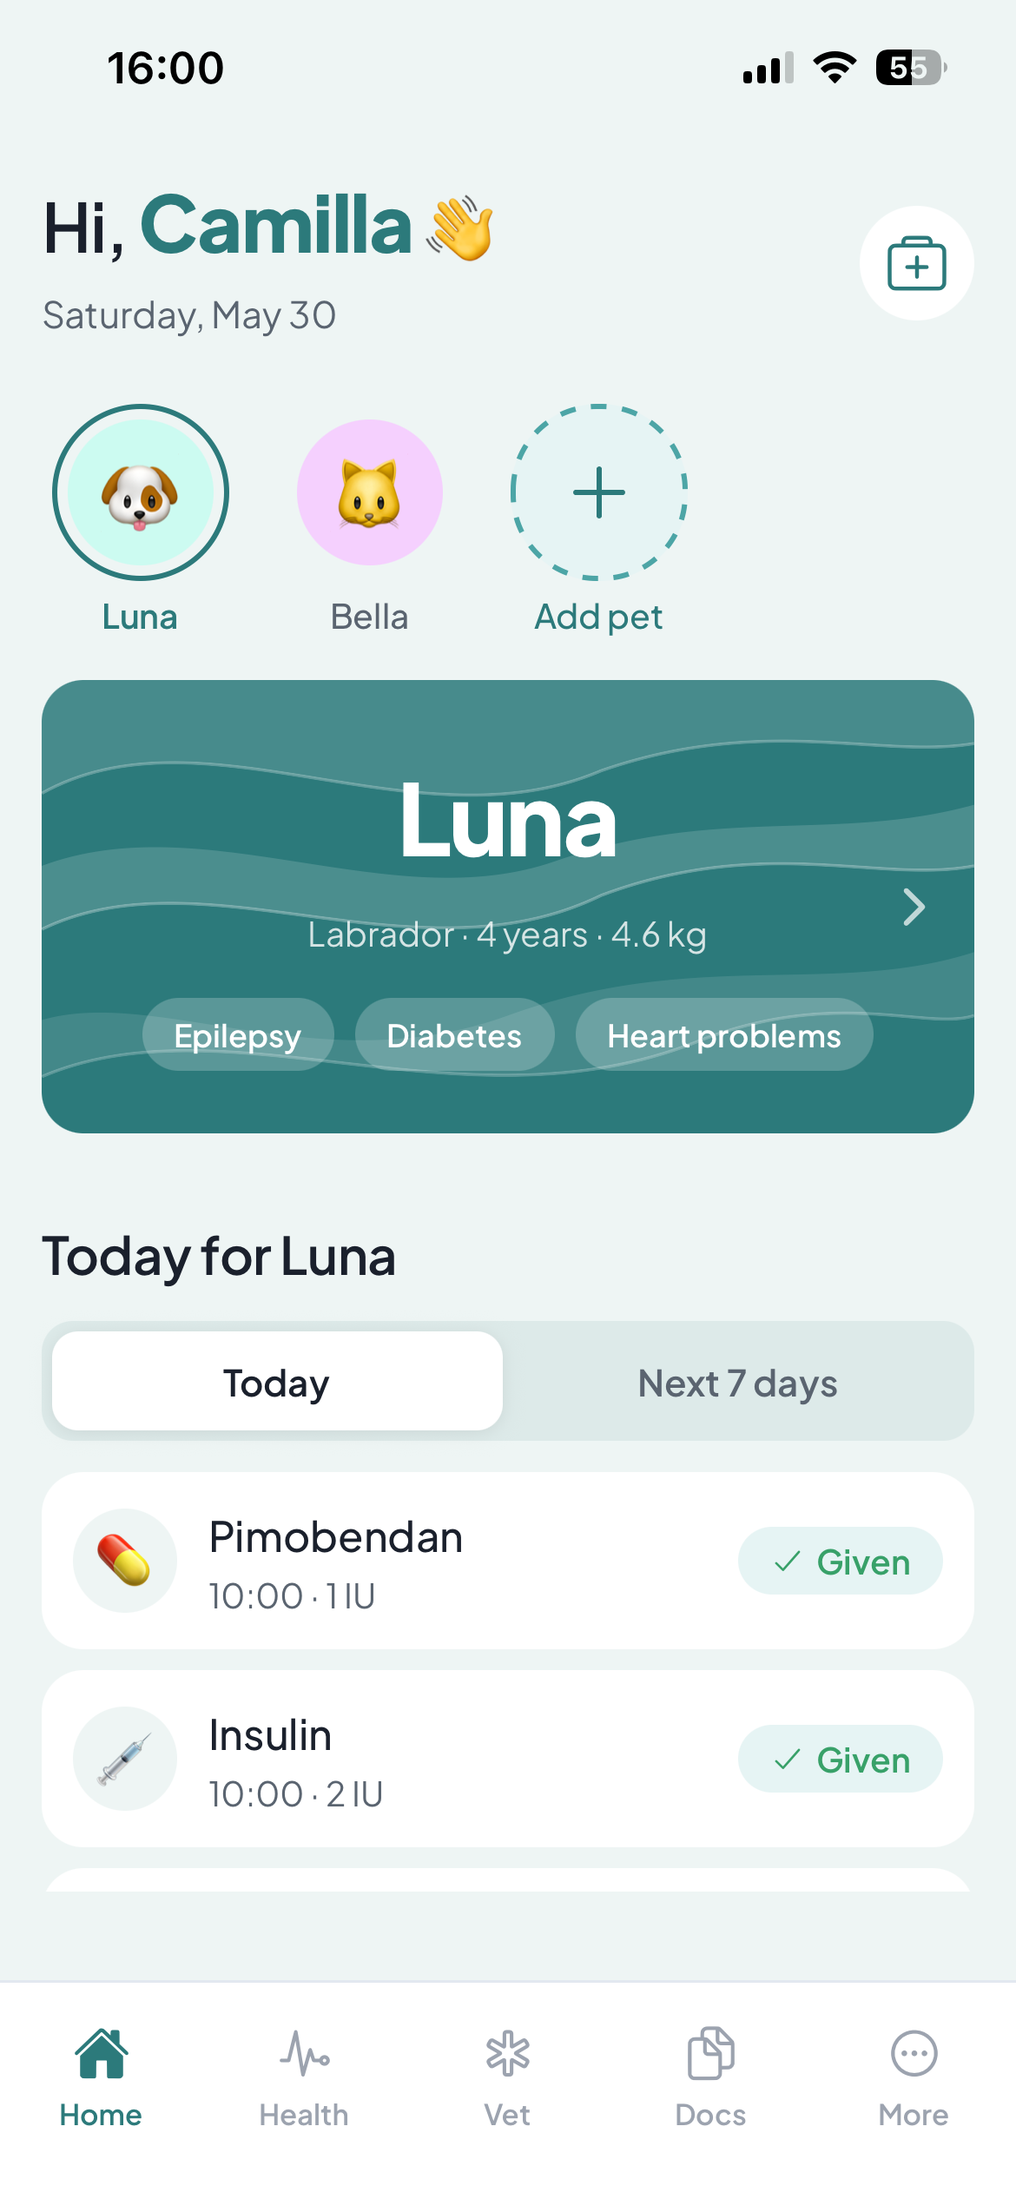
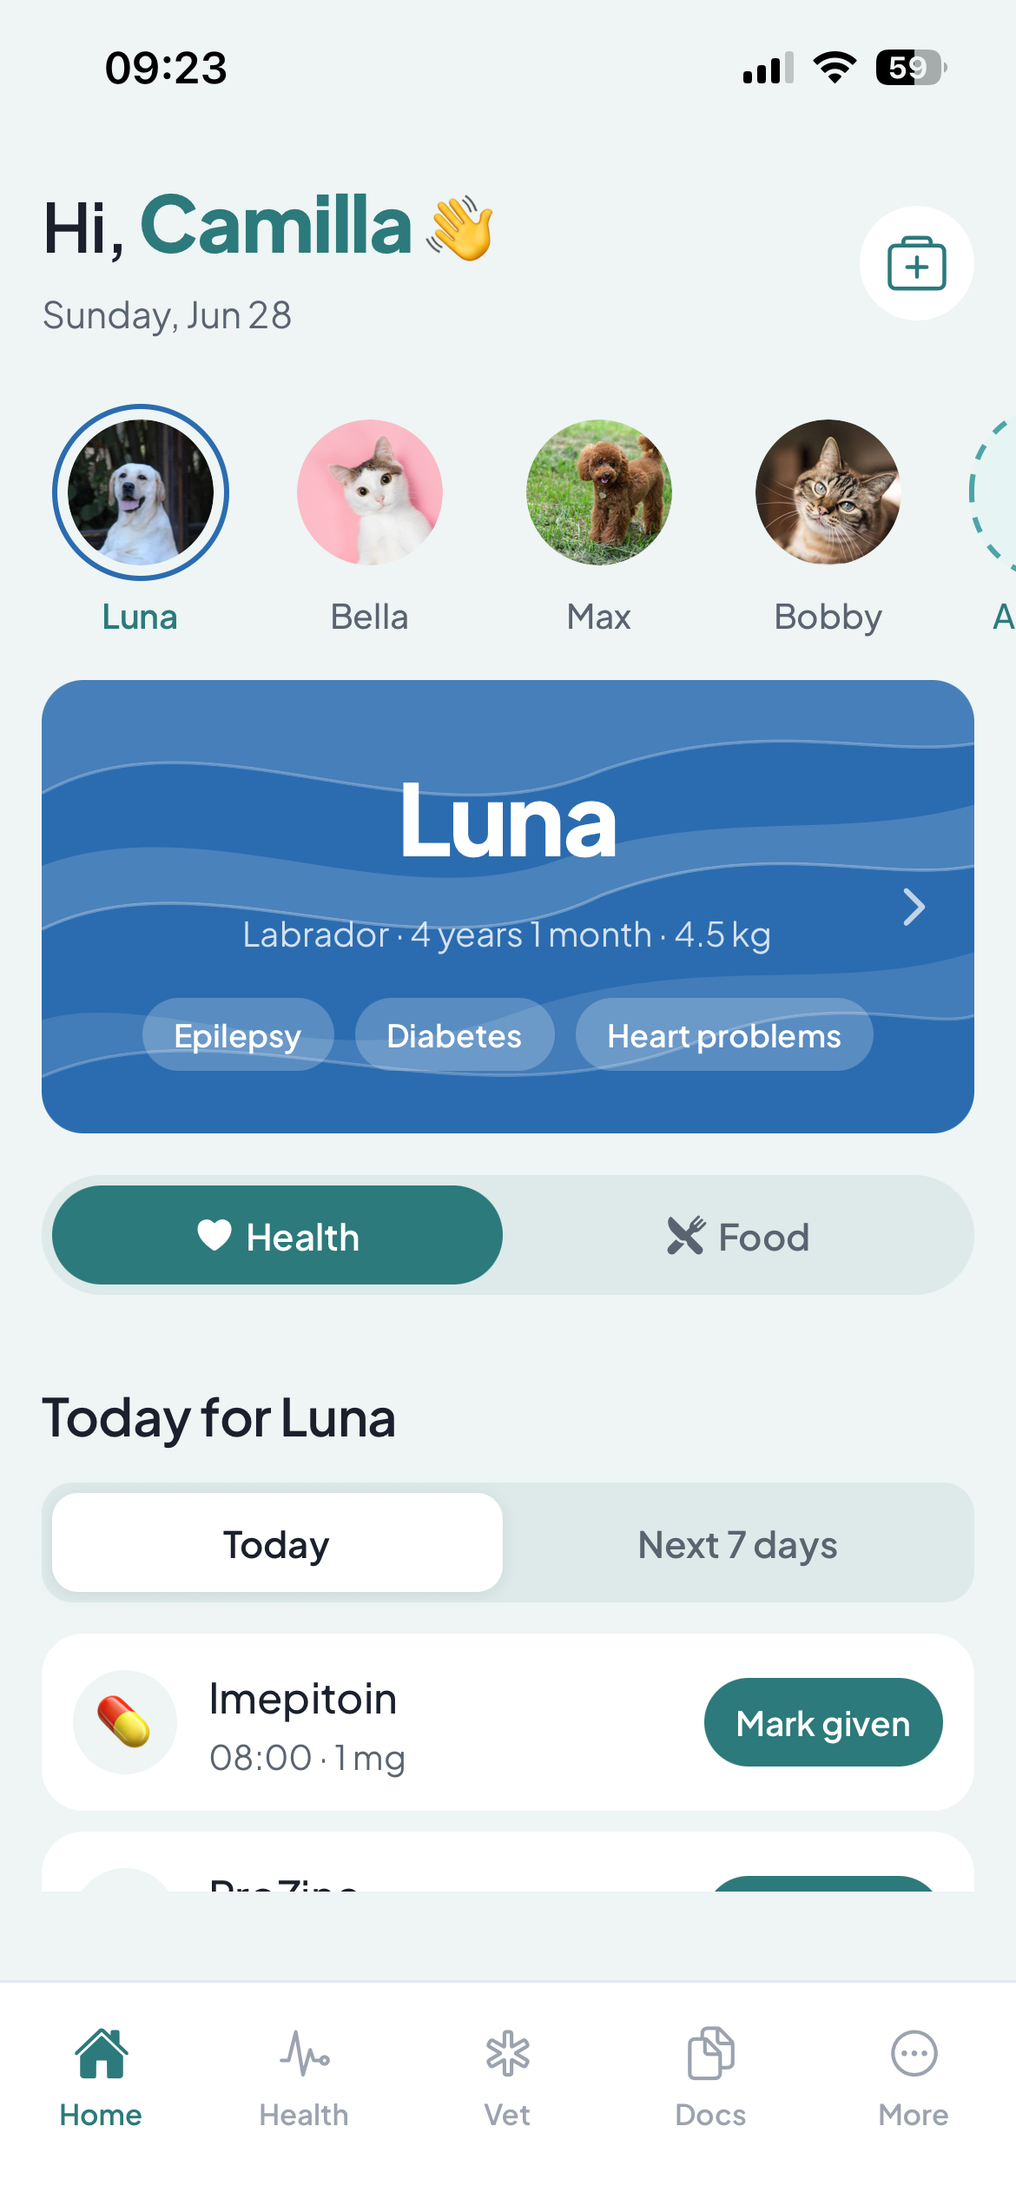
Add files via upload

diff --git a/index.html b/index.html
@@ -73,7 +73,7 @@
       <p class="hero-sub" data-i18n="hero.sub"></p>
       <div class="hero-actions">
         <div class="stores" id="download">
-          <a class="store" href="#download">
+          <a class="store" href="https://apps.apple.com/app/sereno-pet-health-tracker/id6776119195" target="_blank" rel="noopener">
             <svg viewBox="0 0 24 24" fill="currentColor"><path d="M16.5 1.6c.1 1-.3 2-.9 2.7-.7.8-1.7 1.4-2.7 1.3-.1-1 .3-2 1-2.8.6-.7 1.7-1.2 2.6-1.2zM20 17.2c-.5 1.2-.8 1.7-1.4 2.7-.9 1.4-2.2 3.1-3.7 3.1-1.4 0-1.7-.9-3.6-.9s-2.3.9-3.6.9c-1.6 0-2.8-1.5-3.7-2.9C1.4 16.6.8 11.9 2.4 9.4c1-1.6 2.7-2.6 4.3-2.6 1.6 0 2.6 1 3.9 1 1.3 0 2-1 3.9-1 1.4 0 2.9.8 3.9 2.1-3.4 1.9-2.9 6.8 1.2 8.3z"/></svg>
             <span><small data-i18n="hero.app">Download on the</small><b>App Store</b></span>
           </a>
@@ -233,6 +233,7 @@
           <li class="demo-step"><span class="ds-ic"><svg viewBox="0 0 24 24" fill="none" stroke="currentColor" stroke-width="1.8" stroke-linecap="round" stroke-linejoin="round"><path d="M10.5 20.5 4 14a5 5 0 0 1 7-7l6.5 6.5a5 5 0 0 1-7 7Z"/><path d="m8.5 8.5 7 7"/></svg></span><div class="ds-txt"><b data-i18n="demo.s2t">Medications</b><span data-i18n="demo.s2d">Doses, schedules and refill reminders.</span></div></li>
           <li class="demo-step"><span class="ds-ic"><svg viewBox="0 0 24 24" fill="none" stroke="currentColor" stroke-width="1.8" stroke-linecap="round" stroke-linejoin="round"><path d="M3 12h4l2 5 4-12 2 7h6"/></svg></span><div class="ds-txt"><b data-i18n="demo.s3t">Symptoms</b><span data-i18n="demo.s3d">Log a flare-up with a note, a photo and a time.</span></div></li>
           <li class="demo-step"><span class="ds-ic"><svg viewBox="0 0 24 24" fill="none" stroke="currentColor" stroke-width="1.8" stroke-linecap="round" stroke-linejoin="round"><path d="M9 11.5l2.5 2.5 5-5"/><path d="M20 12.5V18a2 2 0 0 1-2 2H6a2 2 0 0 1-2-2V6a2 2 0 0 1 2-2h8.5"/></svg></span><div class="ds-txt"><b data-i18n="demo.s4t">Health report</b><span data-i18n="demo.s4d">One tap turns months of tracking into a report.</span></div></li>
+          <li class="demo-step"><span class="ds-ic"><svg viewBox="0 0 24 24" fill="none" stroke="currentColor" stroke-width="1.8" stroke-linecap="round" stroke-linejoin="round"><path d="M5 3v6a2 2 0 0 0 4 0V3M7 11v10"/><path d="M16.5 3C15 3 14 5.4 14 8s1 4 2.5 4M16.5 3v18"/></svg></span><div class="ds-txt"><b data-i18n="demo.s5t">Food &amp; water</b><span data-i18n="demo.s5d">Log every meal, treat and sip.</span></div></li>
         </ul>
       </div>
       <div class="demo-right">
@@ -245,6 +246,8 @@
         <div class="dscreen"><div class="dscreen-inner"><img class="dscreen-shot" src="assets/demo_symptoms_sm.png" alt="Sereno — Symptoms screen"><span class="dscreen-island"></span></div></div>
         <!-- Screen 4: Health overview -->
         <div class="dscreen"><div class="dscreen-inner"><img class="dscreen-shot" src="assets/demo_report_sm.png" alt="Sereno — Health overview screen"><span class="dscreen-island"></span></div></div>
+        <!-- Screen 5: Food & water -->
+        <div class="dscreen"><div class="dscreen-inner"><img class="dscreen-shot" src="assets/demo_food_sm.png" alt="Sereno — Food & water screen"><span class="dscreen-island"></span></div></div>
       </div>
       </div>
     </div>
@@ -459,7 +462,7 @@
       <h2 data-i18n="cta.title">Start caring with confidence today.</h2>
       <p data-i18n="cta.sub">Join 40,000+ families giving their pets calmer, better care.</p>
       <div class="stores">
-        <a class="store" href="#download">
+        <a class="store" href="https://apps.apple.com/app/sereno-pet-health-tracker/id6776119195" target="_blank" rel="noopener">
           <svg viewBox="0 0 24 24" fill="currentColor"><path d="M16.5 1.6c.1 1-.3 2-.9 2.7-.7.8-1.7 1.4-2.7 1.3-.1-1 .3-2 1-2.8.6-.7 1.7-1.2 2.6-1.2zM20 17.2c-.5 1.2-.8 1.7-1.4 2.7-.9 1.4-2.2 3.1-3.7 3.1-1.4 0-1.7-.9-3.6-.9s-2.3.9-3.6.9c-1.6 0-2.8-1.5-3.7-2.9C1.4 16.6.8 11.9 2.4 9.4c1-1.6 2.7-2.6 4.3-2.6 1.6 0 2.6 1 3.9 1 1.3 0 2-1 3.9-1 1.4 0 2.9.8 3.9 2.1-3.4 1.9-2.9 6.8 1.2 8.3z"/></svg>
           <span><small data-i18n="hero.app">Download on the</small><b>App Store</b></span>
         </a>
@@ -512,5 +515,110 @@
 <script src="js/i18n.js?v=7"></script>
 <script src="js/main.js?v=12"></script>
 <script src="js/mobile-demo.js?v=8"></script>
+
+<!-- ============ Cookie consent + Meta Pixel ============ -->
+<style>
+  #cookie-banner{
+    position:fixed;left:16px;right:16px;bottom:16px;z-index:9999;
+    max-width:640px;margin:0 auto;
+    display:flex;align-items:center;gap:18px;flex-wrap:wrap;
+    padding:16px 20px;
+    background:rgba(255,255,255,.96);backdrop-filter:blur(10px);
+    border:1px solid var(--line,rgba(22,48,46,.10));
+    border-radius:16px;
+    box-shadow:0 16px 40px -14px rgba(22,48,46,.35);
+    font-family:'Plus Jakarta Sans',system-ui,sans-serif;
+    transform:translateY(140%);transition:transform .5s cubic-bezier(.22,1,.36,1);
+  }
+  #cookie-banner.show{transform:translateY(0)}
+  #cookie-banner .cc-text{
+    flex:1 1 280px;min-width:240px;
+    font-size:13.5px;line-height:1.5;color:var(--ink-soft,#4a615e)
+  }
+  #cookie-banner .cc-text a{color:var(--teal,#2c7a7b);font-weight:600;text-decoration:underline;text-underline-offset:2px}
+  #cookie-banner .cc-actions{display:flex;gap:10px;flex:0 0 auto}
+  #cookie-banner button{
+    font-family:inherit;cursor:pointer;border:none;
+    padding:10px 20px;border-radius:100px;font-weight:600;font-size:14px;
+    transition:transform .3s,box-shadow .3s,background .25s
+  }
+  #cookie-banner .cc-accept{background:var(--teal,#2c7a7b);color:#fff;box-shadow:0 8px 18px -8px rgba(44,122,123,.6)}
+  #cookie-banner .cc-accept:hover{transform:translateY(-2px);box-shadow:0 14px 26px -10px rgba(44,122,123,.7)}
+  #cookie-banner .cc-decline{background:transparent;color:var(--ink-soft,#4a615e);border:1px solid var(--line,rgba(22,48,46,.10))}
+  #cookie-banner .cc-decline:hover{background:rgba(22,48,46,.05);color:var(--ink,#16302e)}
+  @media (max-width:520px){
+    #cookie-banner{flex-direction:column;align-items:stretch;text-align:left;gap:14px}
+    #cookie-banner .cc-text{flex:0 0 auto;min-width:0}
+    #cookie-banner .cc-actions{justify-content:flex-end}
+    #cookie-banner .cc-actions button{flex:1}
+  }
+</style>
+
+<div id="cookie-banner" role="dialog" aria-live="polite" aria-label="Cookie consent">
+  <p class="cc-text">We use cookies to measure and improve our ads. <a href="/privacy">Privacy Policy</a></p>
+  <div class="cc-actions">
+    <button type="button" class="cc-decline" id="cc-decline">Decline</button>
+    <button type="button" class="cc-accept" id="cc-accept">Accept</button>
+  </div>
+</div>
+
+<script>
+(function(){
+  var PIXEL_ID = '27504330972512838';
+  var STORE_KEY = 'sereno_cookie_consent';
+
+  function loadPixel(){
+    if(window.fbq) return;
+    /* Meta Pixel base code */
+    !function(f,b,e,v,n,t,s){if(f.fbq)return;n=f.fbq=function(){n.callMethod?
+    n.callMethod.apply(n,arguments):n.queue.push(arguments)};if(!f._fbq)f._fbq=n;
+    n.push=n;n.loaded=!0;n.version='2.0';n.queue=[];t=b.createElement(e);t.async=!0;
+    t.src=v;s=b.getElementsByTagName(e)[0];s.parentNode.insertBefore(t,s)}(window,
+    document,'script','https://connect.facebook.net/en_US/fbevents.js');
+    window.fbq('init', PIXEL_ID);
+    window.fbq('track', 'PageView');
+  }
+
+  function bindDownloadTracking(){
+    document.querySelectorAll('a.store[href*="apps.apple.com"]').forEach(function(a){
+      a.addEventListener('click', function(){
+        if(window.fbq) window.fbq('trackCustom', 'DownloadClick');
+      });
+    });
+  }
+
+  function activate(){
+    loadPixel();
+    bindDownloadTracking();
+  }
+
+  function hideBanner(){
+    var b = document.getElementById('cookie-banner');
+    if(b) b.classList.remove('show');
+  }
+
+  var choice = null;
+  try{ choice = localStorage.getItem(STORE_KEY); }catch(e){}
+
+  if(choice === 'accepted'){
+    activate();
+  } else if(choice === 'declined'){
+    /* do nothing — no pixel */
+  } else {
+    var banner = document.getElementById('cookie-banner');
+    requestAnimationFrame(function(){ requestAnimationFrame(function(){ banner.classList.add('show'); }); });
+
+    document.getElementById('cc-accept').addEventListener('click', function(){
+      try{ localStorage.setItem(STORE_KEY, 'accepted'); }catch(e){}
+      hideBanner();
+      activate();
+    });
+    document.getElementById('cc-decline').addEventListener('click', function(){
+      try{ localStorage.setItem(STORE_KEY, 'declined'); }catch(e){}
+      hideBanner();
+    });
+  }
+})();
+</script>
 </body>
 </html>

diff --git a/privacy.html b/privacy.html
@@ -257,11 +257,11 @@
     <div class="sereno-card">
 
       <h1>Privacy Policy</h1>
-      <p class="last-updated">Last updated: May 28, 2026</p>
+      <p class="last-updated">Last updated: June 28, 2026</p>
 
       <div class="summary-box">
         <strong>At a glance</strong>
-        <p>This Privacy Policy explains how Sereno collects, uses, and protects your personal information when you use our pet health tracker app. We are based in Italy and operate under European data protection law (GDPR). We do not sell your data, do not use third-party advertising trackers, and you can delete your account and data at any time.</p>
+        <p>This Privacy Policy explains how Sereno collects, uses, and protects your personal information when you use our pet health tracker app. We are based in Italy and operate under European data protection law (GDPR). We do not sell your data. The app contains no advertising trackers; our website uses a Meta advertising pixel only if you give consent via the cookie banner. You can delete your account and data at any time.</p>
       </div>
 
       <p>This Privacy Notice for <strong>Ivan Salgarello</strong> (doing business as <strong>Sereno</strong>) ("<strong>we</strong>," "<strong>us</strong>," or "<strong>our</strong>"), describes how and why we might access, collect, store, use, and/or share ("<strong>process</strong>") your personal information when you use our services ("<strong>Services</strong>"), including when you:</p>
@@ -396,7 +396,7 @@
       </ul>
 
       <h2 id="share">4. When and With Whom Do We Share Information?</h2>
-      <p><strong>In short:</strong> we share information only with the service providers we need to operate the Services. We never sell your data and we do not share it with advertisers.</p>
+      <p><strong>In short:</strong> we share information only with the service providers we need to operate the Services. We never sell your data. We do not share data with advertisers from within the app; on our website, limited browsing data is shared with Meta via the Pixel only if you consent (see Section 5).</p>
       <p>We share information with the following categories of third parties (acting as <strong>data processors</strong> on our behalf under GDPR Art. 28):</p>
 
       <table class="data-table">
@@ -457,6 +457,12 @@
             <td>IP address and basic request logs (website only, not App)</td>
             <td>Worldwide edge network</td>
           </tr>
+          <tr>
+            <td><strong>Meta Platforms, Inc.</strong></td>
+            <td>Website advertising Pixel (consent-based only)</td>
+            <td>Browsing actions on the website, IP address, device/browser info</td>
+            <td>USA (with Standard Contractual Clauses)</td>
+          </tr>
         </tbody>
       </table>
 
@@ -467,15 +473,16 @@
         <li><strong>With other family members:</strong> if you invite someone to your family group, they will be able to see the pets and health data you have shared with the group.</li>
       </ul>
 
-      <p><strong>We do not sell your personal information</strong> and we do not share it with third parties for cross-context behavioral advertising.</p>
+      <p><strong>We do not sell your personal information.</strong> The only advertising-related sharing is the Meta Pixel on our website, which runs solely with your prior consent and which you can decline (see Section 5).</p>
 
       <h2 id="cookies">5. Cookies and Similar Technologies</h2>
-      <p><strong>In short:</strong> the App does not use cookies. Our website uses only essential cookies set by our hosting provider.</p>
-      <p>The mobile App does not use HTTP cookies. The Sereno website (<a href="https://serenopet.com">serenopet.com</a>) may use a minimal number of essential cookies set by our hosting provider (Vercel) for security and basic operation. We do not use analytics, advertising, or tracking cookies.</p>
+      <p><strong>In short:</strong> the App does not use cookies. Our website uses essential cookies and, only with your consent, the Meta (Facebook) advertising Pixel.</p>
+      <p>The mobile App does not use HTTP cookies. The Sereno website (<a href="https://serenopet.com">serenopet.com</a>) may use a minimal number of essential cookies set by our hosting provider (Vercel) for security and basic operation.</p>
+      <p>Our website also uses the <strong>Meta (Facebook) Pixel</strong> — an advertising and measurement technology — loaded <strong>only after you give consent</strong> via the cookie banner. If you decline, no Pixel and no advertising cookies are loaded. When enabled, it collects your browsing actions on our website, your IP address, and browser/device information, and shares them with Meta Platforms, Inc. for advertising measurement and audience building. The legal basis is your <strong>consent</strong> (GDPR Art. 6(1)(a)), which you can withdraw at any time by declining the banner or clearing your cookies. The Sereno mobile app itself contains no Pixel, advertising SDK, or tracking technology.</p>
 
       <h2 id="international">6. International Data Transfers</h2>
       <p><strong>In short:</strong> most of your data stays in the European Union. When we use US-based providers, we rely on appropriate safeguards.</p>
-      <p>Your primary data (account, pets, health records, documents) is stored on Supabase servers located in <strong>Stockholm, Sweden (EU)</strong>. Some of our supporting service providers (such as RevenueCat and Expo) are based in the United States. For data transferred to the US, we rely on the <strong>Standard Contractual Clauses</strong> approved by the European Commission as an appropriate safeguard under GDPR Art. 46.</p>
+      <p>Your primary data (account, pets, health records, documents) is stored on Supabase servers located in <strong>Stockholm, Sweden (EU)</strong>. Some of our supporting service providers (such as RevenueCat, Expo, and Meta — the latter only for the consent-based website Pixel) are based in the United States. For data transferred to the US, we rely on the <strong>Standard Contractual Clauses</strong> approved by the European Commission as an appropriate safeguard under GDPR Art. 46.</p>
 
       <h2 id="retention">7. How Long Do We Keep Your Information?</h2>
       <p><strong>In short:</strong> we keep your information only as long as your account is active or as needed to provide the Services and comply with the law.</p>
@@ -529,7 +536,7 @@
         <li>Know what personal information is collected about you;</li>
         <li>Access your personal information;</li>
         <li>Request deletion of your personal information;</li>
-        <li>Opt out of the sale or sharing of personal information (we do not sell or share for advertising, so this right is already honored by default);</li>
+        <li>Opt out of the sale or sharing of personal information (we do not sell your data; the only advertising-related sharing is the consent-based Meta Pixel on our website, which you can decline);</li>
         <li>Limit the use of sensitive personal information;</li>
         <li>Not be discriminated against for exercising your rights.</li>
       </ul>

diff --git a/css/styles.css b/css/styles.css
@@ -117,10 +117,11 @@ img.photo{opacity:0;transition:opacity .55s ease}
 
 /* store buttons */
 .stores{display:flex;flex-wrap:wrap;gap:14px}
-.store{display:inline-flex;align-items:center;gap:11px;padding:12px 20px;border-radius:16px;
+.store{display:inline-flex;align-items:center;justify-content:center;gap:11px;width:220px;padding:12px 20px;border-radius:16px;
   background:var(--ink);color:#fff;transition:transform .4s var(--ease),box-shadow .4s var(--ease)}
 .store:hover{transform:translateY(-3px);box-shadow:0 16px 30px -12px rgba(22,48,46,.5)}
 .store svg{width:24px;height:24px;flex:none}
+.store span{text-align:center}
 .store small{display:block;font-size:10px;opacity:.72;letter-spacing:.04em;line-height:1}
 .store b{font-size:16px;font-weight:600;line-height:1.2}
 
@@ -341,7 +342,7 @@ img.photo{opacity:0;transition:opacity .55s ease}
 /* ============================================================
    PINNED PRODUCT DEMO
    ============================================================ */
-.demo-pin{height:440vh;position:relative}
+.demo-pin{height:550vh;position:relative}
 .demo-sticky{position:sticky;top:0;height:100vh;display:flex;align-items:center;overflow:hidden}
 .demo-layout{display:grid;grid-template-columns:1.05fr .95fr;gap:clamp(28px,6vw,84px);align-items:center;width:100%}
 .demo-left{max-width:540px}
@@ -411,7 +412,7 @@ img.photo{opacity:0;transition:opacity .55s ease}
 /* ============================================================
    REPORT — scattered → assembled
    ============================================================ */
-.report-pin{height:300vh;position:relative}
+.report-pin{height:360vh;position:relative}
 .report-sticky{position:sticky;top:0;height:100vh;display:flex;flex-direction:column;align-items:center;overflow:hidden}
 .report-head{text-align:center;max-width:780px;padding:clamp(40px,6vh,72px) var(--pad) 0;position:relative;z-index:5}
 .report-stage{position:relative;flex:1;width:100%;max-width:1100px;margin:0 auto}

diff --git a/js/i18n.js b/js/i18n.js
@@ -91,6 +91,8 @@ window.SERENO_I18N = {
     "demo.s3d": "Log a flare-up with a note, a photo and a time in seconds.",
     "demo.s4t": "Health report",
     "demo.s4d": "One tap turns months of tracking into a report your vet will love.",
+    "demo.s5t": "Food & water",
+    "demo.s5d": "Log every meal, treat and sip — with gentle meal reminders, so feeding time is never missed.",
 
     "feat.eyebrow": "Everything chronic-pet care actually needs",
     "feat.title": "Powerful where it matters, calm everywhere else.",
@@ -329,6 +331,8 @@ window.SERENO_I18N = {
     "demo.s3d": "Registra una ricaduta con nota, foto e orario in pochi secondi.",
     "demo.s4t": "Referto di salute",
     "demo.s4d": "Un tocco trasforma mesi di dati in un referto che il veterinario adorerà.",
+    "demo.s5t": "Cibo e acqua",
+    "demo.s5d": "Registra ogni pasto, premio e sorso — con promemoria delicati per i pasti, così l'ora della pappa non si dimentica mai.",
 
     "feat.eyebrow": "Tutto ciò che serve davvero per gli animali cronici",
     "feat.title": "Potente dove conta, sereno ovunque.",
@@ -567,6 +571,8 @@ window.SERENO_I18N = {
     "demo.s3d": "Registra una recaída con nota, foto y hora en segundos.",
     "demo.s4t": "Informe de salud",
     "demo.s4d": "Un toque convierte meses de registro en un informe que tu veterinario adorará.",
+    "demo.s5t": "Comida y agua",
+    "demo.s5d": "Registra cada comida, premio y sorbo — con recordatorios suaves, para no olvidar nunca la hora de comer.",
 
     "feat.eyebrow": "Todo lo que el cuidado crónico realmente necesita",
     "feat.title": "Potente donde importa, sereno en lo demás.",

diff --git a/js/main.js b/js/main.js
@@ -341,8 +341,10 @@
   }
 
   function updateReport(p) {
-    // scraps fly together over first 70% of scroll
-    var f = clamp(p / 0.68, 0, 1);
+    // Lead-in: hold the notes scattered & readable while the section pins,
+    // THEN fly them together. Assembly runs from START→END of the scroll.
+    var START = 0.24, END = 0.84;
+    var f = clamp((p - START) / (END - START), 0, 1);
     var ease = 1 - Math.pow(1 - f, 3);
     scraps.forEach(function (s) {
       var tx = s._x * (1 - ease);
@@ -352,8 +354,8 @@
       s.style.transform = 'translate(-50%,-50%) translate(' + tx + 'px,' + ty + 'px) rotate(' + rot + 'deg) scale(' + sc + ')';
       s.style.opacity = clamp(1 - ease * 1.15, 0, 1);
     });
-    if (reportCard) reportCard.classList.toggle('show', p > 0.58);
-    if (reportHint) reportHint.style.opacity = p > 0.08 ? '0' : '1';
+    if (reportCard) reportCard.classList.toggle('show', p > 0.74);
+    if (reportHint) reportHint.style.opacity = p > 0.14 ? '0' : '1';
   }
 
   function setStaticReport() {
